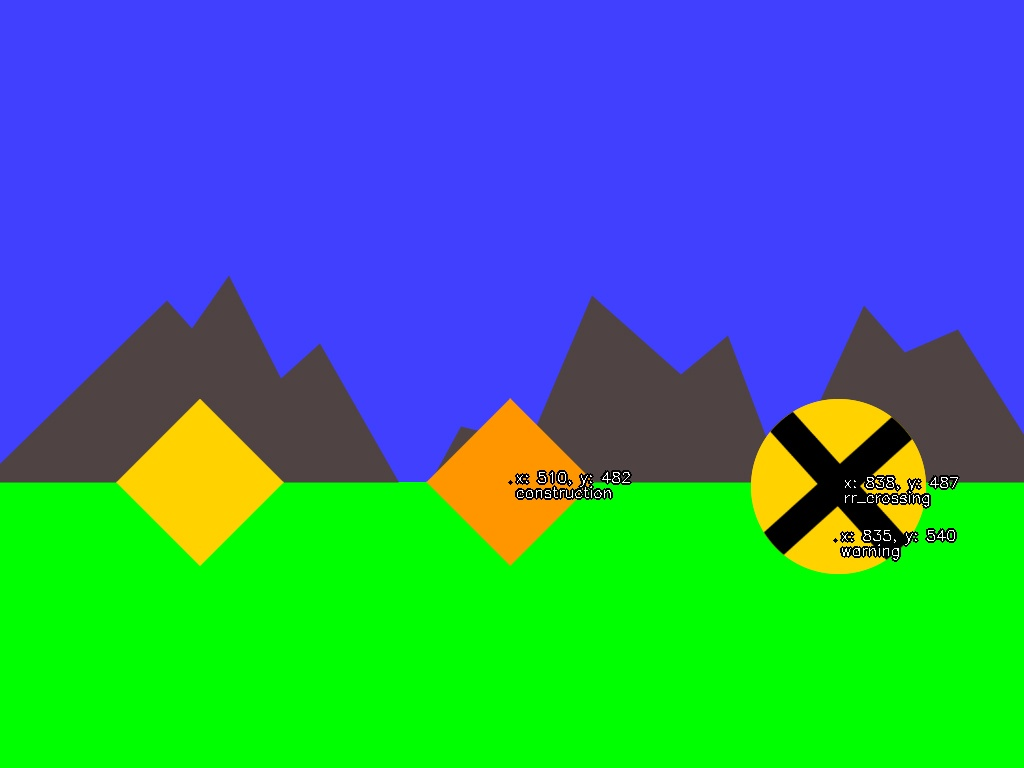
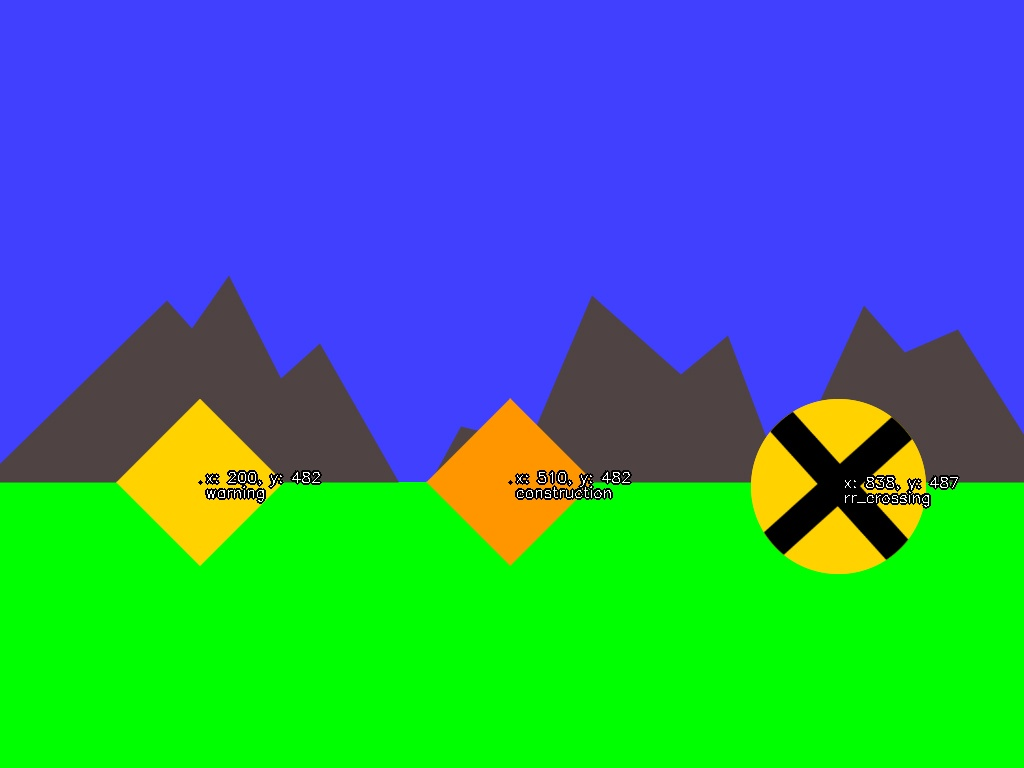
detection_fully_working

Changed region(s): [[0.1875, 0.5938, 0.3125, 0.6562], [0.8125, 0.6875, 0.9375, 0.75]]

diff --git a/homework/hw2/hw2.py b/homework/hw2/hw2.py
@@ -27,7 +27,7 @@ import numpy as np
 def detect_shape(mask: np.ndarray) -> tuple:
     """
     This function takes in the image as a numpy array and returns a list of shapes.
-    :param img: Image as numpy array
+    :param mask: Image as numpy array
     :return: List of shapes.
     """
     # Find contours in the mask
@@ -365,18 +365,18 @@ def identify_warning(img: np.ndarray) -> tuple:
         epsilon = 0.02 * cv2.arcLength(contour, True)
         approx = cv2.approxPolyDP(contour, epsilon, True)
 
-        # Check if the shape is a triangle (3 sides) or diamond-like (4 sides)
+        # Check if the shape is diamond-like (4 sides)
         num_sides = len(approx)
-        if num_sides == 3 or (num_sides == 4 and cv2.isContourConvex(approx)):
+        if num_sides == 4 and cv2.isContourConvex(approx):
             # Get the bounding box to calculate center
             x, y, w, h = cv2.boundingRect(contour)
-            center_x = x + w // 2
-            center_y = y + h // 2
+            aspect_ratio = float(w) / h
 
-            # Check area size to filter out small contours
-            area = cv2.contourArea(contour)
-            if area > 500:
-                return center_x, center_y, 'warning'
+            # Check for diamond-like aspect ratio (roughly square-shaped)
+            if 0.8 <= aspect_ratio <= 1.2:
+                area = cv2.contourArea(contour)
+                if area > 500:
+                    return x + w // 2, y + h // 2, 'warning'
 
     return 0, 0, 'None'
 
